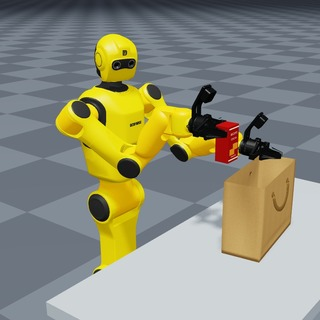
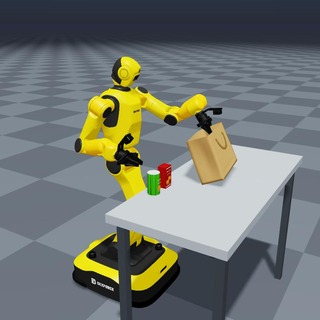
Refine W1 crouch and repair gripper visuals
Lower the worktable to 92 cm and hold a balanced crouched pose while
retaining the single-hand bag tipping and packing sequence. Keep arm
joints at least 10 degrees inside their source limits.

Repair face winding and normals in all four finger visual assets without
changing positions, collision meshes, or joint definitions. Add motion
and asset regressions, update documentation, and refresh the preview.

Validation: 18 unit tests pass; the full 3000-step packing sequence and
3001-frame replay pass. Staged pre-commit checks pass. Repository-wide
checks retain existing unrelated Ruff and spelling failures.

diff --git a/newton/examples/mjvbdv2/example_mjvbd_v2_w1_bag_packing.py b/newton/examples/mjvbdv2/example_mjvbd_v2_w1_bag_packing.py
@@ -1,6 +1,6 @@
 # SPDX-FileCopyrightText: Copyright (c) 2026 The Newton Developers
 # SPDX-License-Identifier: Apache-2.0
-"""Turn up a kraft bag with the W1 left hand, then pack snacks with the right.
+"""Crouch at a worktable, turn up a bag with the left hand, then pack snacks.
 
 uv run --extra examples -m newton.examples mjvbd_v2_w1_bag_packing
 
@@ -27,7 +27,7 @@ from newton.examples.mjvbdv2.example_mjvbd_v2_w1_pick_place import ASSET, OPEN, 
 from newton.solvers import SolverMJVBDV2
 
 ASSETS = Path(__file__).resolve().parents[3] / "assets/w1_paper_bag"
-TABLE_Z = 0.98
+TABLE_Z = 0.92
 TABLE_CENTER = np.array((0.66, -0.01, TABLE_Z - 0.022))
 TABLE_HALF = np.array((0.30, 0.66, 0.022))
 DEPTH, WIDTH, HEIGHT = 0.13, 0.32, 0.25
@@ -160,6 +160,9 @@ class Example:
             for j, name in enumerate(builder.joint_label)
             if builder.joint_type[j] != newton.JointType.FIXED
         }
+        # Equal lower links fold symmetrically, lowering the torso without lean.
+        for name, value in (("ANKLE", 25.0), ("KNEE", -50.0), ("BUTTOCK", 25.0)):
+            builder.joint_q[self.coords[name]] = math.radians(value)
         self.ee = [
             next(i for i, name in enumerate(builder.body_label) if name.endswith(f"/{s}_gripper_base")) for s in SIDES
         ]
@@ -430,15 +433,21 @@ class Example:
                 ik.IKObjectivePosition(
                     body,
                     wp.vec3(),
-                    wp.array([wp.vec3(0.05 - self.args.robot_setback, sign * 0.30, 1.12)], dtype=wp.vec3),
+                    wp.array([wp.vec3(0.05 - self.args.robot_setback, sign * 0.30, TABLE_Z + 0.14)], dtype=wp.vec3),
                     weight=0.03,
                 )
             )
+        self.lower, self.upper = self.ik_model.joint_limit_lower.numpy(), self.ik_model.joint_limit_upper.numpy()
+        self.arm_coords = np.array([self.coords[f"{side}_J{j}"] for side in ("LEFT", "RIGHT") for j in range(1, 8)])
+        # Preserve room at each arm joint's stops, including during wrist turns.
+        self.motion_lower, self.motion_upper = self.lower.copy(), self.upper.copy()
+        self.motion_lower[self.arm_coords] += math.radians(10)
+        self.motion_upper[self.arm_coords] -= math.radians(10)
         objectives = (
             self.positions
             + self.elbows
             + self.rotations
-            + [ik.IKObjectiveJointLimit(self.ik_model.joint_limit_lower, self.ik_model.joint_limit_upper, weight=10)]
+            + [ik.IKObjectiveJointLimit(wp.array(self.motion_lower), wp.array(self.motion_upper), weight=10)]
         )
         mask = np.zeros(self.ik_model.joint_dof_count, dtype=bool)
         for side in ("LEFT", "RIGHT"):
@@ -453,7 +462,6 @@ class Example:
             lambda_initial=0.1,
             lambda_min=0.01,
         )
-        self.lower, self.upper = self.ik_model.joint_limit_lower.numpy(), self.ik_model.joint_limit_upper.numpy()
 
     def _solve_ik(self, targets, openings, angles, *, iterations=24):
         for side, (position, rotation, point, angle) in enumerate(
@@ -467,7 +475,7 @@ class Example:
             rotation.set_target_rotation(0, wp.vec4(*orientation))
         previous = self.ik_q.numpy()[0]
         self.ik_solver.step(self.ik_q, self.ik_q, iterations=iterations)
-        q = np.clip(self.ik_q.numpy()[0], self.lower, self.upper)
+        q = np.clip(self.ik_q.numpy()[0], self.motion_lower, self.motion_upper)
         if iterations <= 24:
             delta = q - previous
             fraction = min(1.0, 4.0 * self.frame_dt / max(float(np.max(np.abs(delta))), 1e-9))
@@ -476,8 +484,7 @@ class Example:
             for finger in (1, 2):
                 q[self.coords[f"{side}_FINGER{finger}_JOINT"]] = opening
         if iterations <= 24:
-            active = smooth((self.sim_time - (PACK_START - 1.0)) / 2.0)
-            point = (1 - active) * targets[0] + active * targets[1]
+            point = self._gaze_target(targets, self.sim_time)
             direction = point - self.head_origin
             desired = np.array(
                 (
@@ -495,6 +502,11 @@ class Example:
             self.head_yaw_range[1] = max(self.head_yaw_range[1], q[self.neck[0]])
         self.ik_q.assign(q.reshape(1, -1))
         return q
+
+    @staticmethod
+    def _gaze_target(targets, t):
+        packing = smooth((t - (PACK_START - 1.0)) / 2.0)
+        return (1 - packing) * targets[0] + packing * targets[1]
 
     def _plan(self, t):
         progress = smooth((t - 5.5) / 4.5)
@@ -718,9 +730,8 @@ class Example:
             left_drop = bodies[self.shoulders[0], 2] - bodies[self.elbows[0].link_index, 2]
             if left_drop < 0.05:
                 raise AssertionError("The left elbow rose into the horizontal, outstretched posture")
-            active = smooth((self.sim_time - (PACK_START - 1.0)) / 2.0)
             hands = np.array([wp.transform_point(wp.transform(*bodies[body]), TCP) for body in self.ee])
-            direction = (1 - active) * hands[0] + active * hands[1] - bodies[self.head, :3]
+            direction = self._gaze_target(hands, self.sim_time) - bodies[self.head, :3]
             forward = np.asarray(wp.quat_rotate(wp.quat(*bodies[self.head, 3:]), wp.vec3(1, 0, 0)))
             if np.dot(forward, direction) / np.linalg.norm(direction) < math.cos(math.radians(35)):
                 raise AssertionError("The head turned away from the operating hand")
@@ -768,6 +779,10 @@ class Example:
         joints = self.state_0.joint_q.numpy()[: self.robot_coords]
         if np.any(joints < self.lower - 1e-5) or np.any(joints > self.upper + 1e-5):
             raise AssertionError("Arm motion exceeded the source joint position limits")
+        arms = self.arm_coords
+        margin = np.minimum(joints[arms] - self.lower[arms], self.upper[arms] - joints[arms])
+        if np.min(margin) < math.radians(10) - 1e-5:
+            raise AssertionError("Arm joints must stay at least 10 degrees away from their stops")
         shape_limit = 0.04 if self.sim_time < 11 else 0.025
         if self.shape_error > shape_limit:
             raise AssertionError(f"Paper body collapsed: {self.shape_error:.4f} m")

diff --git a/newton/tests/test_w1_gripper_assets.py b/newton/tests/test_w1_gripper_assets.py
@@ -1,0 +1,60 @@
+# SPDX-FileCopyrightText: Copyright (c) 2026 The Newton Developers
+# SPDX-License-Identifier: Apache-2.0
+
+"""Validate the W1 finger visuals with ordinary back-face culling enabled."""
+
+import unittest
+import xml.etree.ElementTree as ET
+from pathlib import Path
+
+import numpy as np
+
+ASSETS = Path(__file__).resolve().parents[1] / "examples/mjvbdv2/assets/w1_v030/w1-030/visual"
+NS = {"c": "http://www.collada.org/2005/11/COLLADASchema"}
+
+
+class TestW1GripperAssets(unittest.TestCase):
+    def test_finger_shells_face_outward(self):
+        """Each closed component must remain visible from outside the gripper."""
+        import trimesh
+
+        for side in ("left_hand", "right_hand"):
+            for finger in (7, 8):
+                with self.subTest(side=side, finger=finger):
+                    mesh = trimesh.load(ASSETS / side / f"link{finger}.dae", force="mesh")
+                    mesh.merge_vertices(merge_tex=True, merge_norm=True)
+                    self.assertTrue(mesh.is_watertight)
+                    self.assertTrue(mesh.is_winding_consistent)
+                    for component in mesh.split():
+                        self.assertGreater(component.volume, 0)
+
+    def test_authored_normals_agree_with_faces(self):
+        """Do not leave inverted lighting normals behind after repairing winding."""
+        for side in ("left_hand", "right_hand"):
+            for finger in (7, 8):
+                with self.subTest(side=side, finger=finger):
+                    root = ET.parse(ASSETS / side / f"link{finger}.dae").getroot()
+                    for mesh in root.findall(".//c:geometry/c:mesh", NS):
+                        arrays = {
+                            source.attrib["id"]: np.fromstring(source.find("c:float_array", NS).text, sep=" ").reshape(
+                                -1, int(source.find("c:technique_common/c:accessor", NS).attrib["stride"])
+                            )
+                            for source in mesh.findall("c:source", NS)
+                        }
+                        vertices = arrays[mesh.find("c:vertices/c:input", NS).attrib["source"][1:]]
+                        for group in mesh.findall("c:triangles", NS):
+                            inputs = {item.attrib["semantic"]: item.attrib for item in group.findall("c:input", NS)}
+                            stride = max(int(item["offset"]) for item in inputs.values()) + 1
+                            corners = np.fromstring(group.find("c:p", NS).text, sep=" ", dtype=int).reshape(
+                                -1, 3, stride
+                            )
+                            points = vertices[corners[:, :, int(inputs["VERTEX"]["offset"])]]
+                            face_normals = np.cross(points[:, 1] - points[:, 0], points[:, 2] - points[:, 0])
+                            face_normals /= np.maximum(np.linalg.norm(face_normals, axis=1, keepdims=True), 1e-30)
+                            normal_input = inputs["NORMAL"]
+                            normals = arrays[normal_input["source"][1:]][corners[:, :, int(normal_input["offset"])]]
+                            self.assertGreaterEqual(float(np.einsum("fci,fi->fc", normals, face_normals).min()), -1e-4)
+
+
+if __name__ == "__main__":
+    unittest.main()

diff --git a/newton/tests/test_mjvbd_v2_w1_bag_packing.py b/newton/tests/test_mjvbd_v2_w1_bag_packing.py
@@ -5,10 +5,18 @@
 import unittest
 
 import numpy as np
+import warp as wp
 
+import newton
 from newton.examples.mjvbdv2.example_mjvbd_v2_w1_bag_packing import (
     ASSETS,
+    IDLE_OPENING,
+    IDLE_PITCH,
+    OPEN,
+    PACK_START,
+    SUPPORT_OPENING,
     TABLE_Z,
+    Example,
     bag_frame,
     count_handle_crossings,
     fit_bag,
@@ -16,6 +24,7 @@ from newton.examples.mjvbdv2.example_mjvbd_v2_w1_bag_packing import (
     snack_extent,
     triangles_overlap_box,
 )
+from newton.viewer import ViewerNull
 
 
 class TestW1PaperBag(unittest.TestCase):
@@ -122,6 +131,47 @@ class TestW1PaperBag(unittest.TestCase):
             self.assertLess(error, 1e-6)
         world[rest[:, 2] > 0.12, 0] += 0.025
         self.assertGreater(fit_bag(rest, world)[2], 0.004)
+
+
+class TestW1BagMotion(unittest.TestCase):
+    @classmethod
+    def setUpClass(cls):
+        with wp.ScopedDevice("cpu"):
+            cls.scene = Example.create_render_scene(ViewerNull(), Example.create_parser().parse_args([]))
+
+    def test_right_hand_waits_clear_during_left_hand_tipping_and_regrasp(self):
+        """Keep the right hand relaxed at home until the snack pickup starts."""
+        scene = self.scene
+        for time in np.linspace(0, PACK_START, 145):
+            targets, openings, angles = scene._plan(time)
+            np.testing.assert_allclose(targets[1], scene.home[1], atol=1e-7)
+            self.assertAlmostEqual(openings[1], IDLE_OPENING)
+            self.assertAlmostEqual(angles[1], IDLE_PITCH)
+        for time in (5.5, 7.5, 10.0, 20.5):
+            targets, openings, _ = scene._plan(time)
+            self.assertGreater(np.linalg.norm(targets[0] - scene.home[0]), 0.10)
+            self.assertAlmostEqual(openings[0], SUPPORT_OPENING)
+        _, openings, _ = scene._plan(14.0)
+        self.assertAlmostEqual(openings[0], OPEN)
+
+    def test_crouch_lowers_torso_without_pitching_it(self):
+        """Lower the torso through coordinated leg joints while preserving its upright orientation."""
+        scene = self.scene
+        model = scene.model
+        leg = [scene.coords[name] for name in ("ANKLE", "KNEE", "BUTTOCK")]
+        torso = next(i for i, name in enumerate(model.body_label) if name.endswith("/upper_body_base"))
+        crouched, straight = model.state(), model.state()
+        newton.eval_fk(model, model.joint_q, model.joint_qd, crouched)
+        q = model.joint_q.numpy()
+        self.assertGreater(abs(q[leg[1]]), np.radians(20))
+        q[leg] = 0
+        straight.joint_q.assign(q)
+        newton.eval_fk(model, straight.joint_q, model.joint_qd, straight)
+        a, b = crouched.body_q.numpy()[torso], straight.body_q.numpy()[torso]
+        self.assertGreater(b[2] - a[2], 0.03)
+        self.assertLess(b[2] - a[2], 0.12)
+        np.testing.assert_allclose(a[3:], b[3:], atol=1e-6)
+        np.testing.assert_allclose(a[:2], b[:2], atol=1e-6)
 
 
 if __name__ == "__main__":

diff --git a/assets/w1_paper_bag/README.md b/assets/w1_paper_bag/README.md
@@ -7,14 +7,17 @@ to turn the bag up. As in the later reference frames, it then releases, clears
 the rim, and regrips from the side while the right hand waits clear. The right
 hand subsequently packs snacks.
 
-The table is 0.98 m high, raised from 0.86 m to put the grasp in a more natural
-part of the W1 arm workspace. Its near edge is at x = 0.36 m, leaving the
-wrist and finger tails outside the table during the inclined rim approach.
-These are scene choices, not measured video dimensions.
+The table is 0.92 m high. Its near edge is at x = 0.36 m, leaving the wrist
+and finger tails outside the table during the inclined rim approach. The lower
+body starts with ankle, knee, and hip angles of 25, -50, and 25 degrees. This
+lowers the torso by about 6.4 cm without leaning it or shifting it horizontally.
+The crouch is held throughout the sequence. These are scene choices inspired by
+the reference, not measured video dimensions or a balance controller.
 
 The robot is the same W1 V030 URDF, mesh geometry, parallel grippers, and wrist
 cameras used by `mjvbd_v2_w1_pick_place`. Scene-local display colors approximate
-the video's yellow shell and black joints. The source robot assets are unchanged.
+the video's yellow shell and black joints. Finger visual assets have repaired
+face winding and normals; their geometry and separate collision meshes are unchanged.
 
 ## Blender assets
 
@@ -115,7 +118,7 @@ including a 3 mm clearance above its surface. This catches wrist and forearm
 intersections even when the tool-center point is above the table.
 
 The default sequence lasts 50 simulated seconds (3,000 frames). For a shorter
-one-snack run, use `--snacks 1 --num-frames 2280`. Joint commands preserve the
+one-snack run, use `--snacks 1 --num-frames 2280`. Joint commands keep all 14 arm joints at least 10 degrees inside their
 source position limits and cap arm speed at 4 rad/s; coordinated IK updates
 are scaled together to avoid sudden wrist flips. The path is approximate and
 allows up to 4 cm of transient TCP tracking lag during reorientation. Released

diff --git a/newton/examples/mjvbdv2/assets/w1_v030/README.md b/newton/examples/mjvbdv2/assets/w1_v030/README.md
@@ -6,8 +6,11 @@ DexForce Technology Co., Ltd., assembly manager V2.0, generated July 14, 2026.
 Its original GLB/DAE visuals, OBJ collision meshes, two parallel grippers and
 RealSense D405 camera modules are retained. No additional license is asserted
 for these user-provided assets.
-Mesh contents and URDF joint definitions are unchanged; trailing blank lines
-in URDF text are normalized. Meshes are stored with Git LFS.
+The four finger visuals (`visual/{left_hand,right_hand}/link{7,8}.dae`) have
+repaired triangle winding and matching outward normals so back-face culling
+does not hide their outer surfaces. Vertex positions, UVs, materials, collision
+meshes, and URDF joint definitions are preserved. Trailing blank lines in URDF
+text are normalized. Meshes are stored with Git LFS.
 
 The demo loads `robot.urdf`. The older `DexforceW1V021_grip` robot from the same
 download is not used. `--robot-urdf PATH` can select an equivalent V030 assembly

diff --git a/README.md b/README.md
@@ -1195,10 +1195,11 @@ uv run --extra examples -m newton.examples mjvbd_v2_w1_bag_packing --record --te
 uv run --extra examples -m newton.examples mjvbd_v2_w1_bag_packing --replay --loop
 ```
 
-The W1 V030 uses its left hand to turn up a paper bag, then regrips the rim
-from the side while the right hand packs snacks. Its head follows the operating
-hand. The Blender-authored
-paper bag and snacks remain dynamic throughout. See the
+The W1 V030 crouches at a 92 cm worktable and uses its left hand to turn up a
+paper bag, then regrips the rim from the side. The right hand waits at its side
+until it starts packing snacks. Arm joints retain a 10-degree margin from their
+limits, and the head follows the operating hand. The Blender-authored paper bag
+and snacks remain dynamic throughout. See the
 [reference, asset, and validation notes](assets/w1_paper_bag/README.md).
 
 ## Project Governance, Legal, and Members

diff --git a/changelog/+w1-crouch-73ea281c.changed.md b/changelog/+w1-crouch-73ea281c.changed.md
@@ -1,0 +1,1 @@
+Update the W1 bag-packing demo with a crouched lower-body pose, a 92 cm worktable, and a 10-degree margin from arm joint limits while retaining the single-hand tipping sequence.

diff --git a/changelog/+w1-finger-winding-a1c938e4.fixed.md b/changelog/+w1-finger-winding-a1c938e4.fixed.md
@@ -1,0 +1,1 @@
+Fix reversed faces and normals in the four W1 V030 finger visuals so their outer surfaces remain visible with back-face culling enabled.
